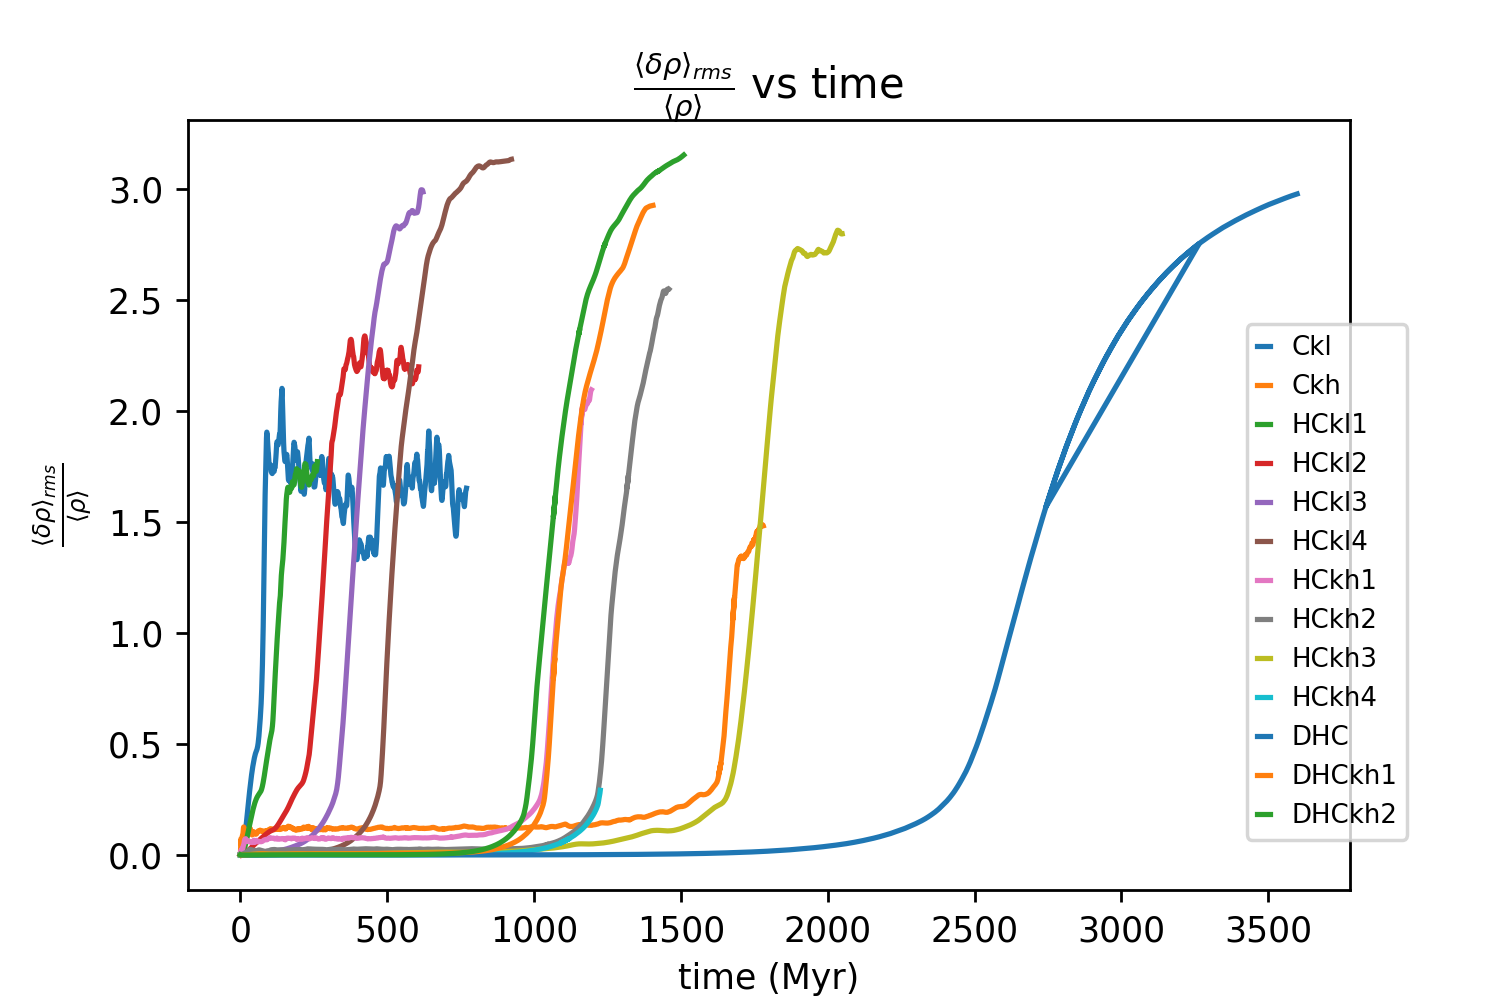
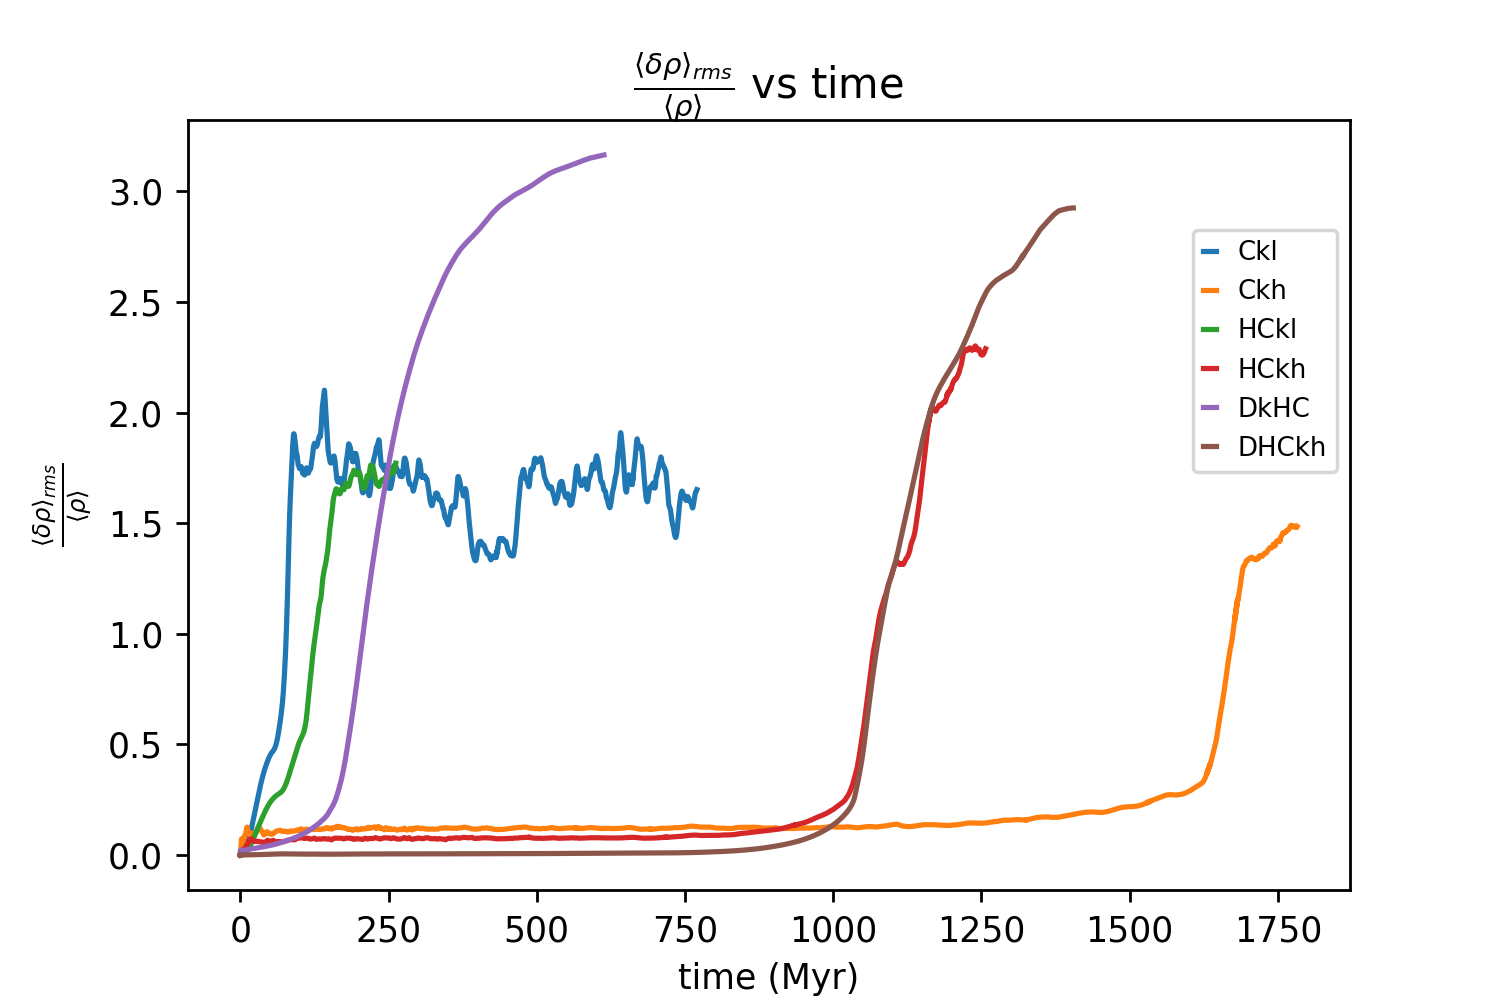
Modified a few plots

diff --git a/All_analysis/diff_spectra.py b/All_analysis/diff_spectra.py
@@ -5,7 +5,7 @@ import time
 from scipy.optimize import curve_fit
 from scipy import stats
 import pylab as plot
-params = {'legend.fontsize':7.5,
+params = {'legend.fontsize':8.0,
           'legend.handlelength': 0.5}
 plot.rcParams.update(params)
 
@@ -82,13 +82,13 @@ for i in xrange(0, start.size):
 	del_Ek_comp2=np.std(Ekcomp2,0)
 #Here we plot the compensated power spectrum, multiplying E(k) with k^(5/3)
 	if (i==2 or i==0): 
-		ax1.errorbar(k1[1:-10],Ek_comp1[1:-10],yerr=del_Ek_comp1[1:-10],fmt='*-',capthick=0.1,label=r'$\epsilon^{-2/3}k^{5/3}V_k^2$, $\mathcal{M}=$'+str(mach[i]))
-		ax1.errorbar(k2[1:-10],Ek_comp2[1:-10],yerr=del_Ek_comp2[1:-10],fmt='d-', capthick=0.1,label=r'$\epsilon^{-2/3}k^{5/3}\rho_k^2$, $\mathcal{M}= =$'+str(mach[i]))
+		ax1.errorbar(k1[1:-10],Ek_comp1[1:-10],yerr=del_Ek_comp1[1:-10],fmt='*-', label=r'$\epsilon^{-2/3}k^{5/3}V_k^2$, $\mathcal{M}=$'+str(mach[i]))
+		ax1.errorbar(k2[1:-10],Ek_comp2[1:-10],yerr=del_Ek_comp2[1:-10],fmt='d-', label=r'$\epsilon^{-2/3}k^{5/3}\rho_k^2$, $\mathcal{M}= =$'+str(mach[i]))
 	#Plot ratio
 	ax2.plot(k1[1:-10],Ek2[1:-10]/Ek1[1:-10], label='$\mathcal{M}=$'+str(mach[i]))
 ax1.set_yscale('log')
 ax1.set_xscale('log')
-ax1.tick_params(direction='out', length=6, width=2, labeltop=True, labelright=True)
+ax1.tick_params(direction='out', length=6, width=2, labeltop=True)
 #ax1.set_xlabel('k')
 ax1.set_ylabel('E(k)*$k^{5/3}*\epsilon_V^{-2/3}$')
 # Put a legend to the right of the current axis
@@ -97,7 +97,7 @@ ax1.legend(loc='lower right', bbox_to_anchor=(0.88, 0.0), ncol=2)
 
 ax2.set_yscale('log')
 ax2.set_xscale('log')
-ax2.tick_params(direction='out', length=6, width=2, labeltop=True, labelright=True)
+ax2.tick_params(direction='out', length=6, width=2, labeltop=True)
 ax2.set_xlabel('k')
 ax2.set_ylabel(r'$\frac{\rho_k^2}{\left<\rho\right>^2}/\frac{V_k^2}{c_s^2}$')
 ax2.set_ylim(2.e-3,)

diff --git a/del-rho-plots/density_perturb.py b/del-rho-plots/density_perturb.py
@@ -12,11 +12,11 @@ UNIT_VELOCITY= (1.e8)
 UNIT_LENGTH =  (CONST_pc*40.e3)
 UNIT_TIME=UNIT_LENGTH/UNIT_VELOCITY/(3.15e13)
 
-no_files=10
+no_files=6
 #Load data files
-wdir=('tabulated_cooling/256/k0-2/', 'tabulated_cooling/256/k12/', 'thermal_heating/256/tabulated_cooling/F5e-1/k0-2/', 'thermal_heating/256/tabulated_cooling/F1e-1/k0-2/', 'thermal_heating/256/tabulated_cooling/F5e-1/k12/', 'thermal_heating/256/tabulated_cooling/F1e-1/k12/', 'no_turb/2e-2/', 'turb_perturb/F1e-2/k12/')
+wdir=('tabulated_cooling/256/k0-2/', 'tabulated_cooling/256/k12/', 'thermal_heating/256/tabulated_cooling/F5e-1/k0-2/', 'thermal_heating/256/tabulated_cooling/F5e-1/k12/', 'no_turb/2e-2/', 'turb_perturb/F1e-2/k12/')
 
-labels=('Ckl', 'Ckh', 'HCkl1', 'HCkl2', 'HCkl3', 'HCkh1', 'HCkh2', 'HCkh3', 'DkHC', 'DHCkh')
+labels=('Ckl', 'Ckh', 'HCkl', 'HCkh', 'DkHC', 'DHCkh')
 
 fig, ax = plt.subplots()
 for i1 in xrange(0,no_files):
@@ -32,5 +32,5 @@ ax.set_title(r'$\frac{\left<\delta\rho\right>_{rms}}{\left<\rho\right>}$ vs time
 box = ax.get_position()
 ax.set_position([box.x0, box.y0, box.width, box.height])
 # Put a legend to the bottom of the current axis
-ax.legend(loc='center left', bbox_to_anchor=(0.9, 0.4), ncol=1)
+ax.legend(loc='center right', bbox_to_anchor=(1.0, 0.7), ncol=1)
 plt.savefig('del-rho-time.png',dpi=250)
